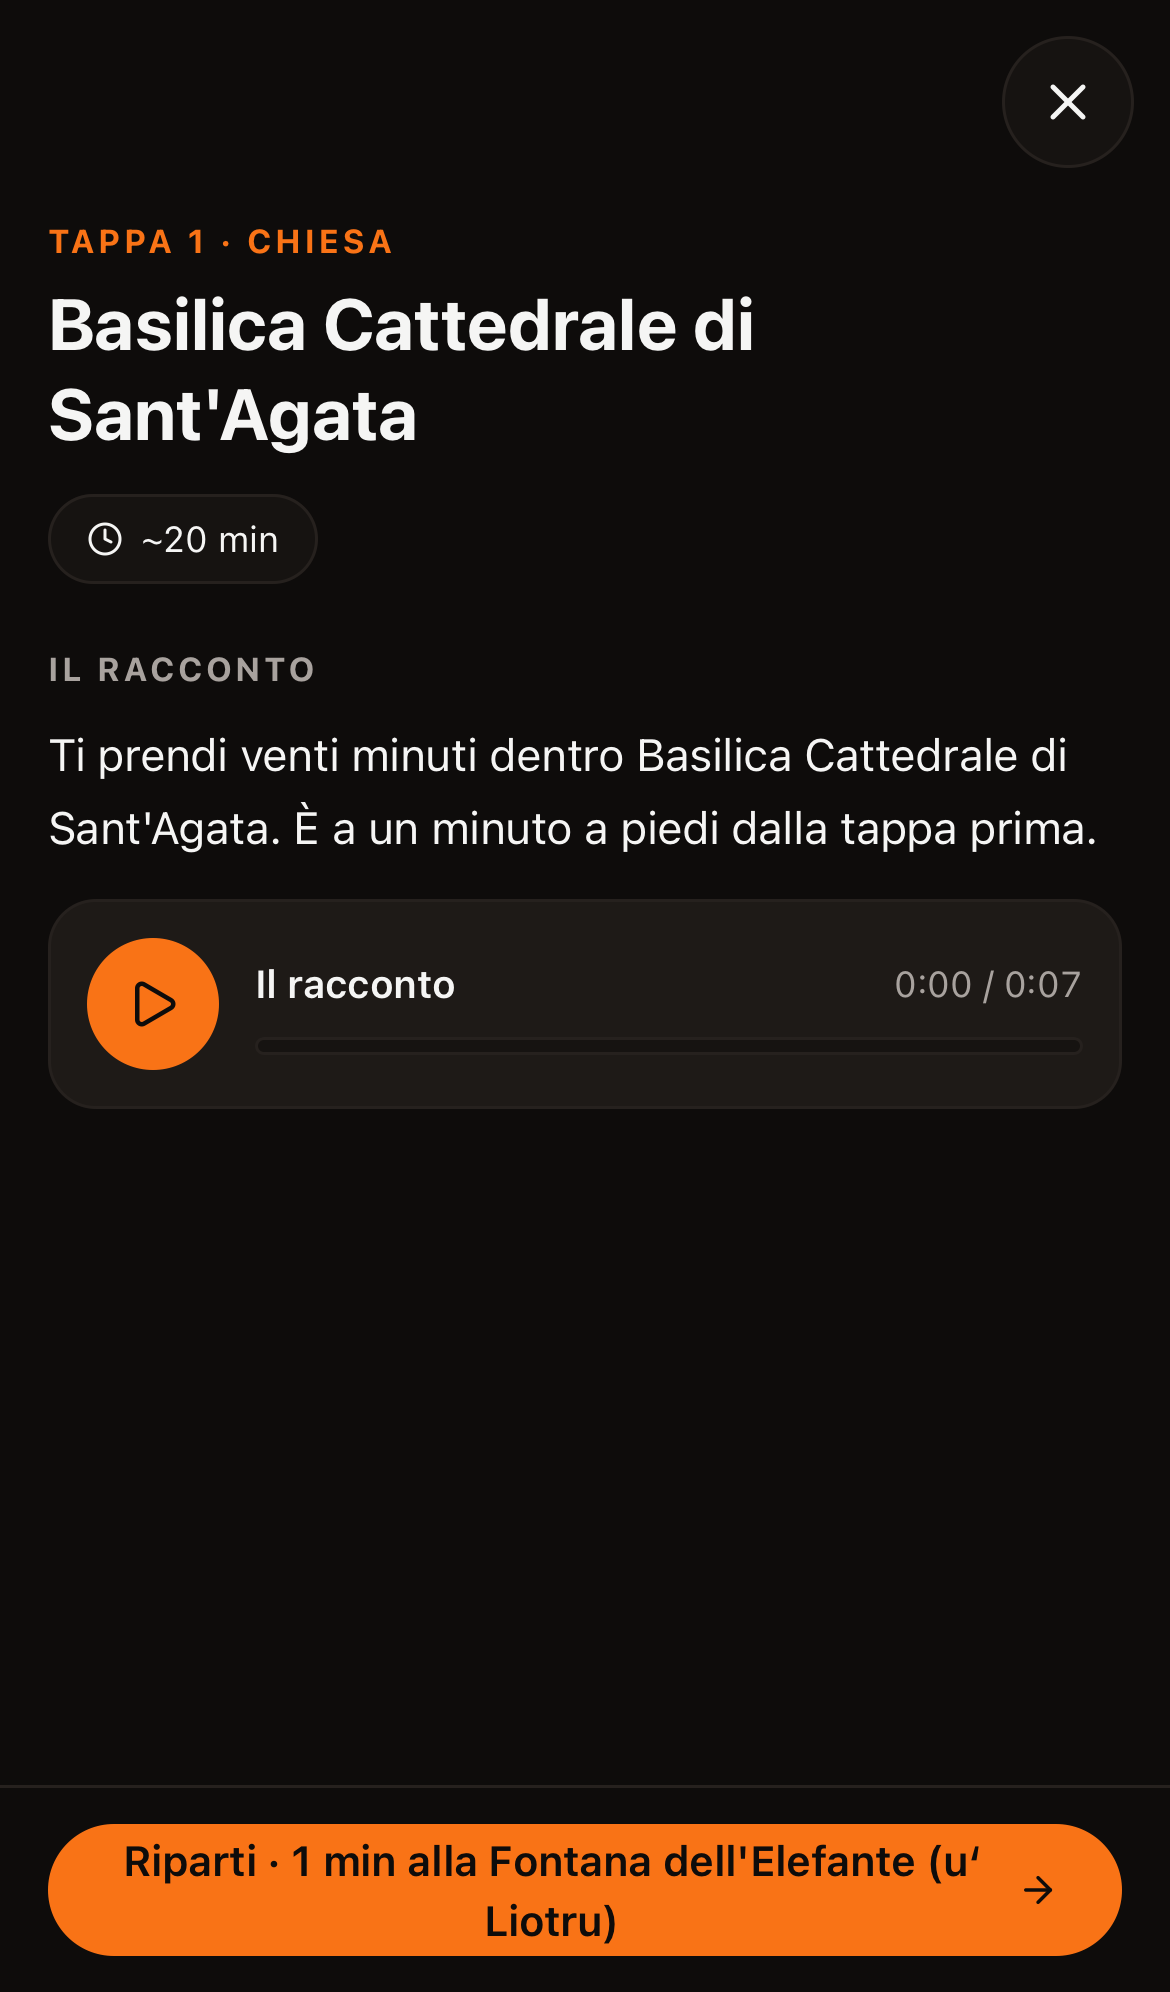
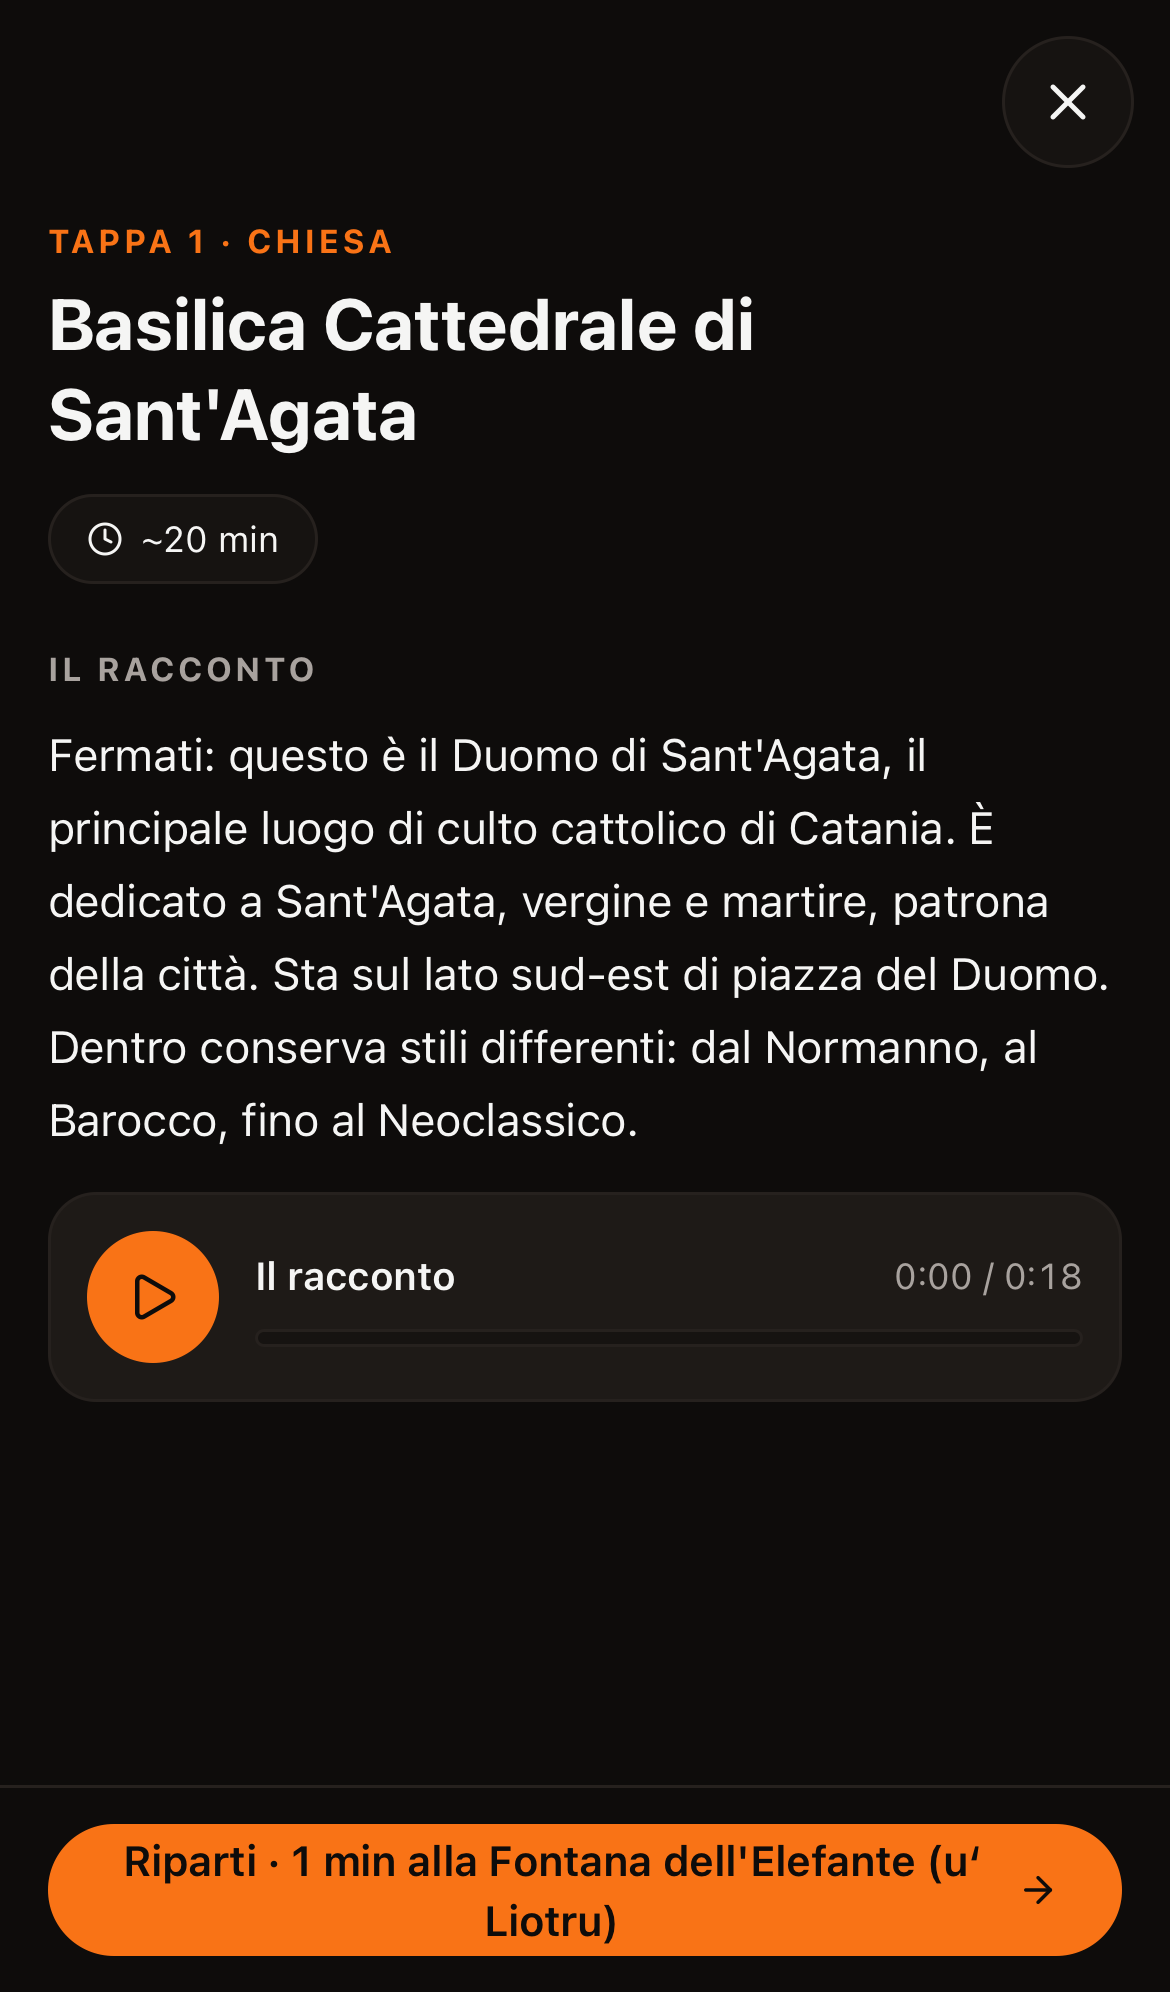
COLLAUDO-SITO: punto 5 ripetuto dopo il rilascio del 31/10, ora ok (10 su 10)
Rilascio con il «sì» di Ivano: db push delle tre migrazioni, AI_UNLIMITED_USER_IDS
(account di Ivano e account di prova), openai-proxy versione 37.
Punto 5: Cattedrale con racconto e riga «passato», le altre tre con frase breve e
riga «scartato»; place_racconti: passato 1, scartato 3. Schermate del 30/10 tenute
come *-30ott.png.

diff --git a/docs/prove/2026-10-30-collaudo-sito.md b/docs/prove/2026-10-30-collaudo-sito.md
@@ -1,6 +1,6 @@
 # COLLAUDO-SITO — collaudo automatico sul sito pubblicato dei lavori del 28–30/10 (30/10/2026)
 
-**Sito:** https://unnivai.vercel.app, commit `92c24d1` (Vercel «Deployment has completed»). **Proxy pubblicato:** `openai-proxy` versione 35, del 28/10 alle 17:55.
+**Sito:** https://unnivai.vercel.app, commit `92c24d1` (Vercel «Deployment has completed»). **Proxy pubblicato:** `openai-proxy` versione 35, del 28/10 alle 17:55; versione 37 dal 31/10 alle 00:05 UTC per la ripetizione del punto 5.
 **Come:** Playwright WebKit con il profilo iPhone 14 e l'account di prova (titolo «DoveVai» verificato prima delle credenziali). Il GPS è finto e si muove lungo il percorso, una posizione alla volta. I giri vengono dai dati del banco (Catania NAV-SIM, place_id veri) o da Crea (punti 8–10).
 **Script:** `scripts/prova-nav/collaudo-sito.webkit.mjs`. **Dati grezzi:** `docs/prove/dati/2026-10-30-collaudo-sito-p123.json`, `-p457.json`, `-p6-8.json`. **Schermate:** `docs/prove/schermate/collaudo-sito/`.
 Solo prova: il codice dell'app non è stato toccato.
@@ -13,14 +13,14 @@ Solo prova: il codice dell'app non è stato toccato.
 | 2 | Alla tappa 2, dopo «Salta», niente freccia | ✅ ok | Freccia all'avvio; dopo «Salta» è assente; pillola «55 m · verso Basilica Cattedrale di Sant'Agata» (`2-tappa-2.png`) |
 | 3 | GPS muto 60 s e ripresa: niente freccia | ✅ ok | Freccia all'avvio. Dopo ~65 s senza posizione compare «Ho perso il segnale. Continua pure: quando torna, riparto da dove sei.» e la freccia è spenta. Il segnale torna nello **stesso punto** (nessun passo verso la tappa): l'avviso sparisce e la freccia resta spenta (`3-silenzio.png`, `3-ripresa.png`) |
 | 4 | Roma, 700 m camminati: curiosità dei nasoni a schermo e richiesta di voce. Catania: nessuna curiosità | ✅ ok | **Roma, 715 m:** due toast «🎧 Roma ha più di duemila fontanelle pubbliche, tutte potabili. Cerca i nasoni!» (a ~300 e ~600 m). Una richiesta `voce` a `openai-proxy` con quella frase; la seconda volta la frase era già in memoria nella sessione, quindi nessuna nuova richiesta. **Catania, 723 m:** zero toast «🎧», nessuna voce con fontanelle o nasoni (`4-roma.png`, `4-catania.png`) |
-| 5 | Schede di Orto Botanico di Roma, Villa Sciarra e due tappe di Catania: racconto presente o frase breve; per i racconti, la riga in `place_racconti` con esito passato | ❌ **no** | In tutte e 4 le schede c'è la frase breve, mai vuota. **Nessun racconto:** il proxy risponde **400 «Model not allowed»** a ogni richiesta `racconto`, e in produzione **`public.place_racconti` non esiste** (`to_regclass` = null). Diagnosi sotto. Schermate: `5-roma-1.png`, `5-roma-2.png`, `5-catania-1.png`, `5-catania-2.png` |
+| 5 | Schede di Orto Botanico di Roma, Villa Sciarra e due tappe di Catania: racconto presente o frase breve; per i racconti, la riga in `place_racconti` con esito passato | ❌ **no** il 30/10 → ✅ **ok** il 31/10 dopo il rilascio | **30/10:** in tutte e 4 le schede c'è la frase breve, mai vuota. **Nessun racconto:** il proxy risponde **400 «Model not allowed»** a ogni richiesta `racconto`, e in produzione **`public.place_racconti` non esiste** (`to_regclass` = null). Diagnosi sotto. Schermate del 30/10: `5-roma-1-30ott.png`, `5-roma-2-30ott.png`, `5-catania-1-30ott.png`, `5-catania-2-30ott.png`. **31/10:** la Cattedrale ha il racconto e la riga «passato»; le altre 3 schede hanno la frase breve e la riga «scartato». Vedi «Ripetizione del punto 5» (`5-catania-1.png` e le altre) |
 | 6 | 2 tappe su 3 raggiunte e «Fine»: «2 tappe su 3», Profilo +1, nessun doppione dopo il ricaricamento | ✅ ok | Due arrivi veri: GPS fermo sulla tappa, rito, «Riparti»; giro salvato con `fatte: s1, s2`. Fine giro: «Sei arrivato a 2 tappe su 3.» Profilo **14 → 15**: 15 anche dopo il ricaricamento e dopo il passaggio dalla home, che non propone «Riprendi». Registro: `tour_completed` dell'account di prova **64 → 65**, **una sola riga** per il giro del collaudo, `value` «2/3» (`6-fine.png`) |
 | 7 | «Salta» fino in fondo e poi 3 tocchi: fine giro, mai login né «Nelle tue Mete» | ✅ ok | 4 «Salta», poi 3 tocchi in 0,5 s nello stesso punto. Si resta su `/map` con la fine giro aperta e «Hai saltato tutte le tappe: il giro finisce qui.»; nessun login, nessun `/profile` (`7-account.png`). Da ospite non si arriva a questo punto: `/map` porta al login, quindi un ospite non può fare un giro |
 | 8 | GPS a Roma, Crea «un giro a Catania»: «Domani · 9:30 · cambia» | ✅ ok | Giro vero da Crea in 20 s. Etichetta «Domani · 9:30 · cambia»; prima tappa alle 9:30, poi 10:00, 10:25… (`8-crea.png`) |
 | 9 | Panoramica con pochi km fra le tappe | ✅ ok | Card «Barocco e piazze di Catania · Giornata 9:30–21:15 · 1h 9 a piedi · **5,0 km** · 13 tappe» (`9-panoramica.png`) |
 | 10 | «Avvia» da lontano: messaggio «Sei a … km», mappa non nera | ✅ ok | «Sei a 536 km da Catania: la guida parte quando sei lì.»; nessuna navigazione partita. Restano le 13 tappe di Catania con il percorso, lo stile scuro della panoramica e nessun volo su Roma (`10-avvia.png`, controllata a occhio) |
 
-**9 su 10 ok; il punto 5 non passa.**
+**30/10: 9 su 10 ok, il punto 5 non passa. 31/10, dopo il rilascio: punto 5 ok, quindi 10 su 10.**
 
 ## Diagnosi del punto 5 (nessuna correzione, come da incarico)
 - **Il proxy pubblicato è più vecchio del racconto.** `openai-proxy` versione 35 è stato pubblicato il 28/10 alle 17:55, con il codice di FORNITORE-AI. Il racconto è arrivato su main con NAV-TESTI-TAPPA alle 21:06 dello stesso giorno, seguito da NAV-RACCONTO-VERIFICA (29/10) e RACCONTO-R4 (30/10).
@@ -28,7 +28,7 @@ Solo prova: il codice dell'app non è stato toccato.
 - **Le migrazioni non sono applicate.** In produzione l'ultima migrazione è `20261028164601`. Mancano `place_racconti`, `place_racconti_verifica` e `ai_quota_tetto_contorno`, quindi la tabella dei racconti non c'è.
 - **L'app si comporta come previsto senza racconto.** `richiediRacconto` restituisce null, la scheda mostra la frase breve e il lettore legge quella. Nessun errore a schermo.
 - **Le due schede di Roma mostrano «Tappa del collaudo.».** È la descrizione del giro costruito per la prova, non una frase del motore. Le schede di Catania mostrano la frase breve vera del giro NAV-SIM.
-- **Cosa serve.** È il rilascio già preparato e rimasto in attesa del «sì» di Ivano:
+- **Cosa serve.** È il rilascio già preparato e rimasto in attesa del «sì» di Ivano (fatto il 31/10, vedi «Ripetizione del punto 5»):
   1. `supabase db push` (il dry-run di oggi elenca solo le tre migrazioni);
   2. il secret `AI_UNLIMITED_USER_IDS`;
   3. `supabase functions deploy openai-proxy --project-ref ahecpiwsdhghkndncejb --no-verify-jwt --use-api`.
@@ -36,10 +36,32 @@ Solo prova: il codice dell'app non è stato toccato.
   Dopo il rilascio il punto 5 si rilancia così: `node scripts/prova-nav/collaudo-sito.webkit.mjs 5`, poi `select esito, count(*) from public.place_racconti group by 1`.
   - Esito atteso dalle prove r4: a Catania la Cattedrale e la Fontana dell'Elefante «passato»; a Roma l'Orto Botanico e Villa Sciarra «scartato» in r4, quindi resterebbe la frase breve.
 
+## Ripetizione del punto 5 dopo il rilascio (31/10)
+**Rilascio**, con il «sì» di Ivano per ogni comando, dal codice di main `0568815` (le funzioni e le migrazioni sono identiche a `92c24d1`):
+1. `supabase db push` la sera del 30/10, prima delle 23:51 UTC. Applicate `20261028190000_place_racconti`, `20261029090000_place_racconti_verifica` (due colonne su `place_racconti`, non una tabella) e `20261029120000_ai_quota_tetto_contorno`.
+2. `AI_UNLIMITED_USER_IDS` impostato il 31/10 alle 00:03 UTC con due id: l'account di Ivano (`813d9dc6-…`, riconosciuto dal suo accesso alle 23:52 UTC) e l'account di prova (`cee972ab-…`).
+3. `openai-proxy` pubblicato con `--use-api`: **versione 37**, il 31/10 alle 00:05 UTC.
+
+**Prova:** `node scripts/prova-nav/collaudo-sito.webkit.mjs 5`, il 31/10 dalle 00:06 alle 00:07 UTC. Dati grezzi in `docs/prove/dati/2026-10-31-collaudo-sito-p5.json`. Prima della prova `place_racconti` aveva 0 righe.
+
+| Tappa | Risposta del proxy | Riga in `place_racconti` | Scheda |
+|---|---|---|---|
+| Orto Botanico di Roma | 200, `scartato` | `scartato`: «numeri non nelle fonti: 7, 000» | frase breve («Tappa del collaudo.», la descrizione del giro di prova) |
+| Villa Sciarra | 200, `scartato` | `scartato`: «indicazione di direzione» | frase breve |
+| Basilica Cattedrale di Sant'Agata | 200, `passato` | **`passato`**, 280 caratteri, scritto da `claude-sonnet-5-5` e verificato da `claude-haiku-4-5` | **racconto**: «Fermati: questo è il Duomo di Sant'Agata, il principale luogo di culto cattolico di Catania. …»; lettore 0:18 (`5-catania-1.png`) |
+| Fontana dell'Elefante | 200, `scartato` | `scartato`: la verifica dice che la frase 2 non è nelle fonti, e anche la riscrittura non passa | frase breve del giro: «Ti fermi davanti a Fontana dell'Elefante … Ci arrivi alle 10:22.» |
+
+**Conteggio:** `select esito, count(*) from public.place_racconti group by 1` dà **passato 1, scartato 3**.
+
+**Esito:** ok. Ogni scheda ha un racconto o una frase breve, e l'unico racconto mostrato ha la sua riga «passato». Nessuna scheda vuota e nessun errore a schermo.
+- **Fontana dell'Elefante:** nelle prove r4 era «passato», qui è «scartato». La verifica ha bocciato una frase sull'epoca dell'elefante che non si trova nelle fonti. Il filtro si è comportato come previsto; con questa versione resta quindi la frase breve.
+- **Costo** delle 4 generazioni: 0,027 $ in tutto. Le righe restano in cache, quindi la prossima apertura di queste schede non spende.
+
 ## Cosa la prova ha scritto in produzione
 - **Un `tour_completed` dell'account di prova** (punto 6), tour `collaudo-fine-…`, `value` «2/3». L'account di prova ora conta 65 giri; la riga resta.
 - **Una generazione da Crea** con l'account di prova (punto 8): `label = 'test'`, nessun contatore.
-- **Richieste di voce e di racconto.** La voce della curiosità era già in cache o è un audio solo. I racconti hanno ricevuto 400, quindi niente salvato e niente speso.
+- **Richieste di voce e di racconto.** La voce della curiosità era già in cache o è un audio solo. Il 30/10 i racconti hanno ricevuto 400, quindi niente salvato e niente speso.
+- **31/10, ripetizione del punto 5:** 4 righe in `place_racconti` (1 «passato», 3 «scartato»), per 0,027 $. L'account di prova ha poi aperto un'altra sessione; nessun nuovo `tour_completed`.
 
 ## Solo iPhone vero (non verificabile in WebKit simulato)
 - **Voce di iOS.** La voce umana (marin/cedar) che esce davvero dall'altoparlante, la ricaduta sulla voce di sistema di Safari e il volume con il telefono in mano o in tasca. Qui si vede solo che la richiesta parte.
